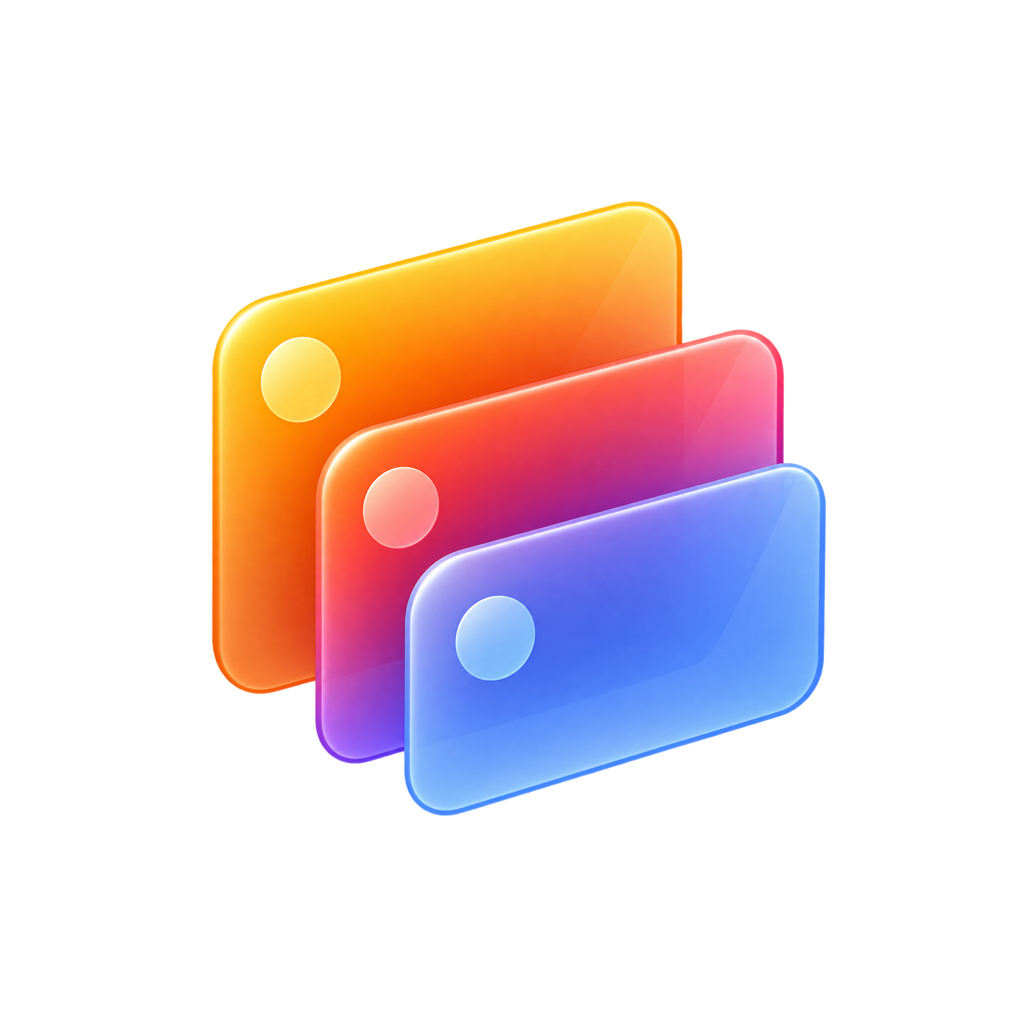
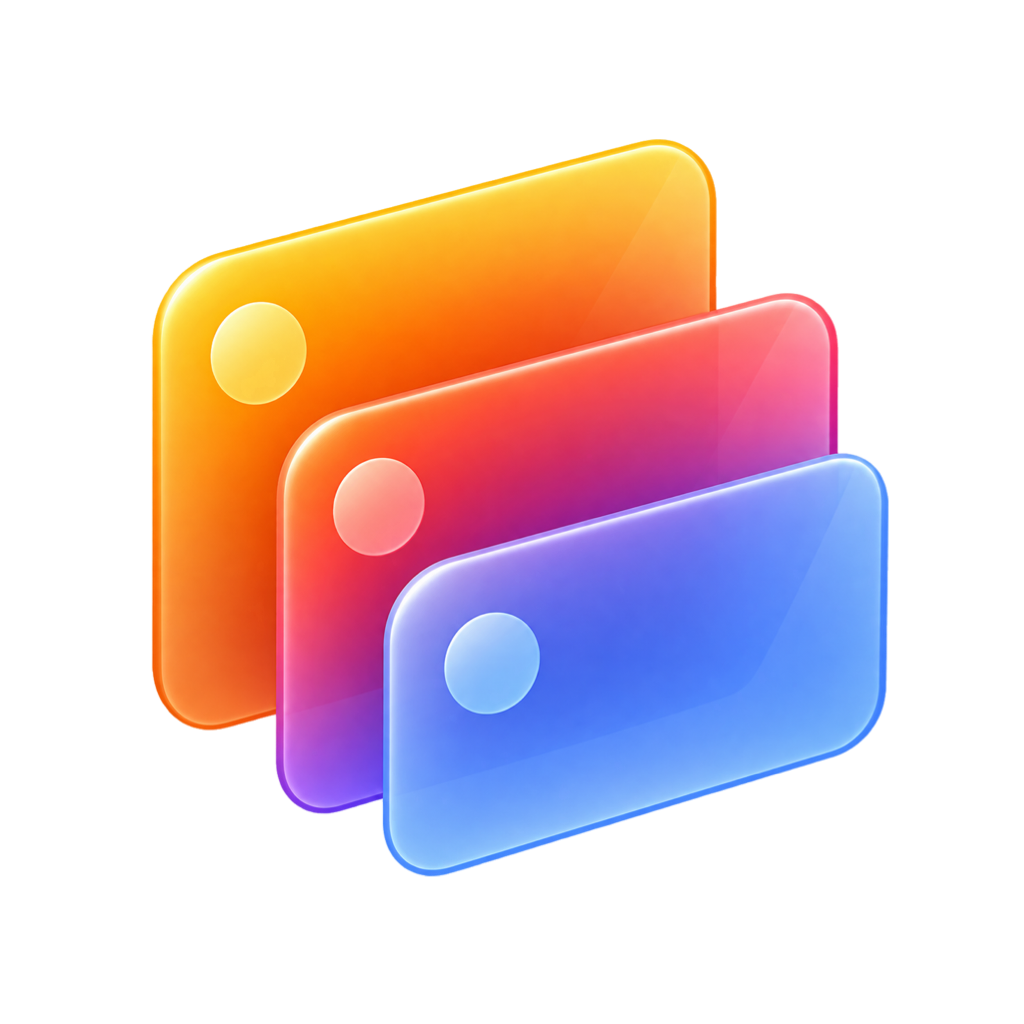
Fix four: stuck health, scroll under the title, grouped search, glyph size
Health sat at "starting" forever while the engine reported the same target
healthy. The split was the clue: the engine checks with curl, the app with
URLSession, and the app bundle declared no App Transport Security exception
— so every http://localhost probe was refused before it left the process. A
first refusal reads as "starting" by design, which turned a blocked request
into a permanent plausible-looking state. NSAllowsLocalNetworking fixes it.

Content scrolled visibly under the title because I had hidden the toolbar
background outright to kill the seam above the sidebar.
toolbarBackgroundVisibility(.automatic) gives both: nothing at rest, a
material once something scrolls beneath it.

Search was already its own ToolbarItem, but macOS 26 draws adjacent items as
one group, so it still read as part of the filter cluster. ToolbarSpacer
between them is what actually separates it.

Glyph up 20% to 72% of the canvas.

Changed region(s): [[0.125, 0.125, 0.875, 0.875]]

diff --git a/app/RunBranch.swift b/app/RunBranch.swift
@@ -1045,12 +1045,10 @@ struct ContentView: View {
             }
         }
         .frame(minWidth: 780, idealWidth: 820, minHeight: 440, idealHeight: 540)
-        // The toolbar paints an opaque band across the whole window width,
-        // including over the sidebar — which is what put a grey block above a
-        // translucent sidebar and a seam beside the title. Finder's sidebar
-        // material runs unbroken to the top because its toolbar has no
-        // background of its own.
-        .toolbarBackground(.hidden, for: .windowToolbar)
+        // Hiding the toolbar background removed the seam above the sidebar but
+        // left content scrolling visibly under the title. `.automatic` gives
+        // both: nothing at rest, a material once something scrolls beneath it.
+        .toolbarBackgroundVisibility(.automatic, for: .windowToolbar)
         .task {
             // Reclaim before reading state, so a crash's leftovers are gone
             // before anything is drawn rather than showing as a phantom run.
@@ -1116,6 +1114,10 @@ struct ContentView: View {
                     .help("Search branches")
                 }
             }
+
+            // A real spacer, so search reads as its own control instead of
+            // being drawn into the filter/refresh group beside it.
+            ToolbarSpacer(.fixed, placement: .primaryAction)
 
             ToolbarItemGroup(placement: .primaryAction) {
                 Menu {
